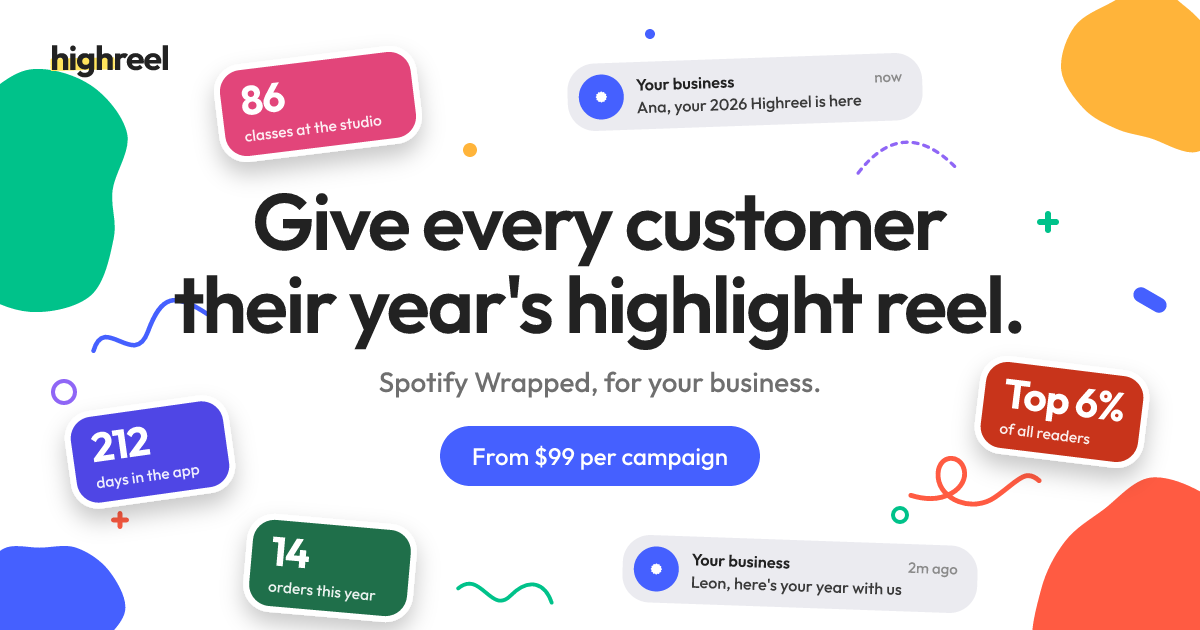
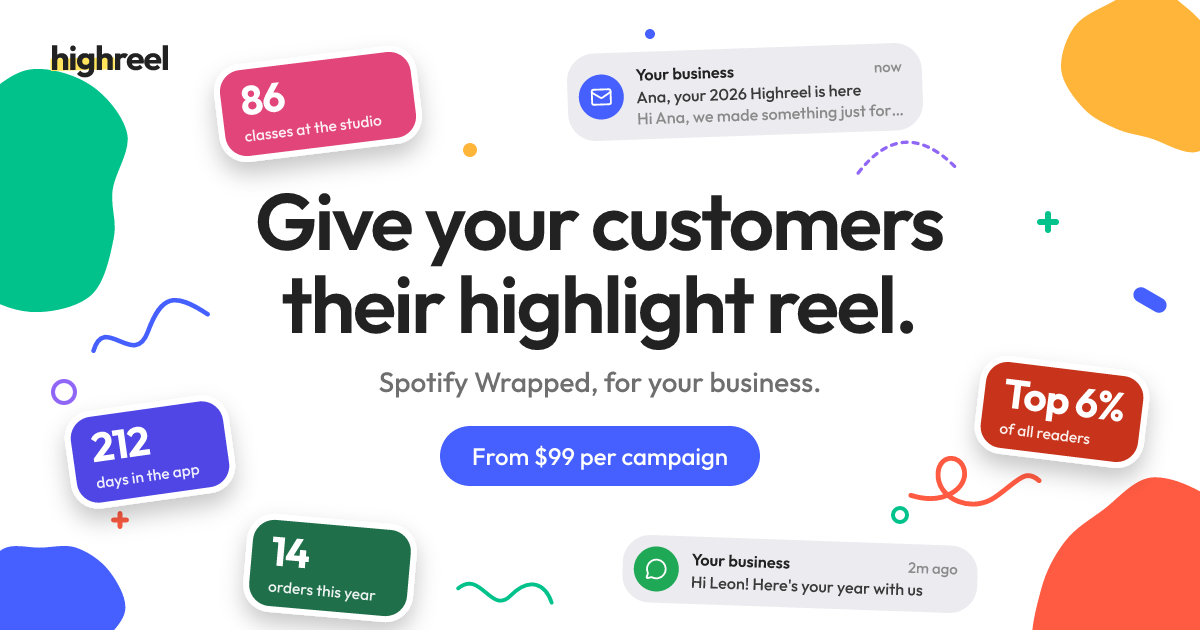
Landing: new headline and lede, email and WhatsApp mock-ups, phones fill edge to edge
- Hero: "Give your customers their highlight reel." with a shorter lede
  ("Spotify Wrapped, for your business: every customer gets a Highreel of
  their year, made to share."); "Your customers had a great year. Show them."
  moves to the closing heading. Tab title, link preview (og.png v3, alt,
  og:title), meta description and the manifest follow.
- Step 2 is "Customise to fit your brand."; its colour flood and step 3's now
  reach the screen's far corners instead of leaving the old colour showing.
- Step 3's lock screens and the hero's bubbles show an email and a WhatsApp
  message from the business, not an app notification with its logo.
- landing.mjs checks the floods, the channels, the headline, lede and closing.

Changed region(s): [[0.1233, 0.3016, 0.8633, 0.573], [0.4933, 0.0905, 0.7708, 0.2111], [0.5242, 0.8444, 0.7708, 0.9651]]

diff --git a/app/pages/index.vue b/app/pages/index.vue
@@ -6,7 +6,7 @@
 // section sits its picture on a big coloured shape: the playing example on
 // its business's colour, the three steps on the page's own palette.
 // Server-rendered, CSS motion only, no third-party scripts.
-import { ArrowRight, ChevronDown } from '@lucide/vue'
+import { ArrowRight, ChevronDown, Mail, MessageCircle } from '@lucide/vue'
 import { usePreferredReducedMotion } from '@vueuse/core'
 import type LandingPlayer from '~/components/landing/LandingPlayer.vue'
 import { blobFrames, type ShapeKind } from '~/lib/shapes'
@@ -38,11 +38,11 @@ const description = LANDING_DESCRIPTION
 // URL names the public site, not the host that built it.
 const canonical = useCanonical('/')
 const ogImage = siteHref(OG_IMAGE)
-const ogImageAlt = 'Highreel: give every customer their year\'s highlight reel. From $99 per campaign.'
+const ogImageAlt = 'Highreel: give your customers their highlight reel. From $99 per campaign.'
 useSeoMeta({
   title,
   description,
-  ogTitle: 'Give every customer their year\'s highlight reel.',
+  ogTitle: 'Give your customers their highlight reel.',
   ogDescription: description,
   ogSiteName: 'Highreel',
   ogLocale: 'en_US',
@@ -139,7 +139,7 @@ const heroBlobs = [
 ].map(b => ({ ...b, frames: blobFrames(b.seed) }))
 // Hand-drawn strokes, each in its own 200 × 120 box.
 const heroLines = [
-  { d: 'M8 70C38 18 62 112 96 62S150 12 192 58', color: C.blue, x: 15, y: 35, s: 140, r: -14, delay: 0 },
+  { d: 'M8 70C38 18 62 112 96 62S150 12 192 58', color: C.blue, x: 15, y: 27, s: 140, r: -14, delay: 0 },
   { d: 'M10 80C60 90 90 60 82 36S40 18 46 50 100 96 130 70 168 24 190 40', color: C.poppy, x: 80, y: 63, s: 140, r: 6, delay: 2.3 },
   { d: 'M12 96Q100 -4 188 96', color: C.violet, x: 72, y: 18, s: 120, r: -4, delay: 4.1, dashed: true },
   { d: 'M14 60C50 20 80 100 110 60S170 30 186 62', color: C.green, x: 37, y: 91, s: 110, r: 8, delay: 1.2, m: [24, 74] as [number, number] },
@@ -163,10 +163,12 @@ const heroStickers = [
   { big: 'Top 6%', small: 'of all readers', bg: '#C8341B', fg: '#FFFFFF', x: 84, y: 58, r: 7 },
   { big: '14', small: 'orders this year', bg: '#1F6F4A', fg: '#FFFFFF', x: 27, y: 87, r: 5, m: [54, 91] as [number, number] },
 ]
-// What lands in each customer's inbox when the business sends the links.
-const heroMail = [
-  { from: 'Your business', when: 'now', text: 'Ana, your 2026 Highreel is here', x: 51, y: 12, r: -2, m: [50, 18] as [number, number] },
-  { from: 'Your business', when: '2m ago', text: 'Leon, here\'s your year with us', x: 61, y: 85, r: 2 },
+// What reaches each customer when the business sends the links: an email
+// from its own address, or a WhatsApp message (owner, 2026-10-14: say which,
+// so it doesn't pass for a notification from an app of ours).
+const heroMail: (Spot & { via: 'mail' | 'chat', from: string, when: string, text: string, more?: string })[] = [
+  { via: 'mail', from: 'Your business', when: 'now', text: 'Ana, your 2026 Highreel is here', more: 'Hi Ana, we made something just for you', x: 51, y: 12, r: -2, m: [50, 18] as [number, number] },
+  { via: 'chat', from: 'Your business', when: '2m ago', text: 'Hi Leon! Here\'s your year with us', x: 61, y: 85, r: 2 },
 ]
 
 const closingShapes: ShapeSpot[] = [
@@ -419,10 +421,11 @@ onMounted(() => {
           :class="{ desk: !n.m }"
           :style="{ ...spot(n, i, 520), ...burst(n, 40 + i) }"
         >
-          <span class="mail-mark"><LandingShape kind="scallop" class="mail-shape" /></span>
+          <span class="mail-mark" :class="`via-${n.via}`"><component :is="n.via === 'mail' ? Mail : MessageCircle" class="mail-shape" /></span>
           <span class="mail-body">
             <span class="mail-from">{{ n.from }}<span class="mail-when">{{ n.when }}</span></span>
             <span class="mail-text">{{ n.text }}</span>
+            <span v-if="n.more" class="mail-text mail-more">{{ n.more }}</span>
           </span>
         </div>
       </div>
@@ -439,7 +442,7 @@ onMounted(() => {
         <!-- The headline and the lede are there in the first frame (no fade):
              they're the page's largest paint, and the scripts wait for it (SPEC M2.11). -->
         <h1 class="headline">
-          <span class="line">Give every customer</span> <span class="line">their year's highlight reel.</span>
+          <span class="line">Give your customers</span> <span class="line">their highlight reel.</span>
         </h1>
         <p class="lede">
           {{ LANDING_LEDE }}
@@ -567,7 +570,9 @@ onMounted(() => {
         </div>
       </div>
       <div class="closing-copy">
-        <h2 class="closing-title rise">Get your Highreels ready for December.</h2>
+        <h2 class="closing-title rise">
+          <span class="line">Your customers had a great year.</span> <span class="line">Show them.</span>
+        </h2>
         <div ref="closingCta" class="rise" style="--d: 100ms">
           <NuxtLink to="/login?demo=1" class="btn">Try the demo <ArrowRight class="size-[18px]" /></NuxtLink>
         </div>
@@ -679,8 +684,9 @@ body.landing-page {
   letter-spacing: -0.025em;
   text-wrap: balance;
 }
+/* two lines on a computer, clear of the stickers beside it */
 .lede {
-  max-width: 32rem;
+  max-width: 30em;
   margin-top: 22px;
   color: var(--muted);
   font-size: clamp(1.08rem, 1.5vw, 1.25rem);
@@ -931,9 +937,11 @@ body.landing-page {
   width: 36px;
   height: 36px;
   border-radius: 50%;
-  background: var(--cta);
   color: #FFFFFF;
 }
+/* an envelope for the email, a speech bubble for the WhatsApp message */
+.mail-mark.via-mail { background: var(--cta); }
+.mail-mark.via-chat { background: #1FA855; }
 .mail-shape { width: 18px; height: 18px; }
 .mail-body { min-width: 0; flex: 1; font-size: 13px; line-height: 1.3; }
 .mail-from {
@@ -950,6 +958,7 @@ body.landing-page {
   text-overflow: ellipsis;
   white-space: nowrap;
 }
+.mail-more { color: #8A8A8A; }
 
 /* --- Hero ------------------------------------------------------------------------ */
 .hero {
@@ -1291,14 +1300,18 @@ body.landing-page {
   padding: 120px 16px;
   text-align: center;
 }
+/* "Your customers had a great year." (13.9em) on one line from 720 px, then "Show them." */
 .closing-title {
-  max-width: 12em;
+  max-width: 14.2em;
   margin-bottom: 32px;
-  font-size: clamp(2.6rem, 6.4vw, 4.75rem);
+  font-size: clamp(2.6rem, 5.6vw, 4.5rem);
   font-weight: 600;
   line-height: 1.04;
   letter-spacing: -0.03em;
   text-wrap: balance;
+}
+@media (min-width: 720px) {
+  .closing-title .line { display: block; }
 }
 .foot {
   position: relative;

diff --git a/app/components/landing/VignetteShare.vue b/app/components/landing/VignetteShare.vue
@@ -1,14 +1,18 @@
 <script setup lang="ts">
-// Landing, step 3: members get their recap. On three phones a notification
-// from "Your business" lands on the lock screen, gets tapped, and that
-// person's recap cover floods open in their business's colour. CSS loop,
-// staggered per phone; the base style is the end state (every recap open),
-// so reduced motion shows three open recaps.
+// Landing, step 3: members get their recap. On three phones the business's
+// message lands on the lock screen (an email on two, a WhatsApp message on
+// one, the two ways a Highreel is sent; owner, 2026-10-14: it mustn't look
+// like an app of ours, so no logo there), gets tapped, and that person's
+// recap cover floods open in their business's colour. CSS loop, staggered per
+// phone; the base style is the end state (every recap open), so reduced
+// motion shows three open recaps.
+import { Mail, MessageCircle } from '@lucide/vue'
+
 const members = [
-  { name: 'Ana', bg: '#4F46E5', fg: '#FFFFFF' },
-  { name: 'Leon', bg: '#E2457A', fg: '#FFFFFF' },
-  { name: 'Dea', bg: '#F5C518', fg: '#1A1A1A' },
-]
+  { name: 'Ana', bg: '#4F46E5', fg: '#FFFFFF', via: 'mail' },
+  { name: 'Leon', bg: '#E2457A', fg: '#FFFFFF', via: 'chat' },
+  { name: 'Dea', bg: '#F5C518', fg: '#1A1A1A', via: 'mail' },
+] as const
 </script>
 
 <template>
@@ -20,10 +24,14 @@ const members = [
             <p class="date">Monday 7 December</p>
             <p class="clock">9:41</p>
             <div class="note">
-              <span class="app"><LandingShape kind="scallop" class="app-shape" /></span>
+              <span class="app" :class="`via-${m.via}`"><component :is="m.via === 'mail' ? Mail : MessageCircle" class="app-icon" /></span>
               <span class="note-body">
                 <span class="note-top"><b>Your business</b><span>now</span></span>
-                <span class="note-text">{{ m.name }}, your 2026 Highreel is here</span>
+                <template v-if="m.via === 'mail'">
+                  <span class="note-text">{{ m.name }}, your 2026 Highreel is here</span>
+                  <span class="note-text note-more">Hi {{ m.name }}, we made something just for you</span>
+                </template>
+                <span v-else class="note-text">Hi {{ m.name }}! We made your 2026 into a little Highreel</span>
               </span>
             </div>
           </div>
@@ -96,7 +104,7 @@ const members = [
   top: 108cqw;
   display: flex;
   gap: 3.4cqw;
-  align-items: center;
+  align-items: flex-start;
   padding: 4cqw;
   border-radius: 7cqw;
   background: rgb(255 255 255 / 0.82);
@@ -112,10 +120,12 @@ const members = [
   width: 12cqw;
   height: 12cqw;
   border-radius: 3cqw;
-  background: #4560FF;
   color: #FFFFFF;
 }
-.app-shape { width: 7.5cqw; height: 7.5cqw; }
+/* the phone's own mail and messages apps, so it reads as an email or a message */
+.app.via-mail { background: linear-gradient(#5AB0FF, #1F7CF2); }
+.app.via-chat { background: linear-gradient(#62DB73, #22B13C); }
+.app-icon { width: 7.5cqw; height: 7.5cqw; stroke-width: 2.4; }
 .note-body { min-width: 0; flex: 1; line-height: 1.2; }
 .note-top {
   display: flex;
@@ -127,11 +137,18 @@ const members = [
   display: block;
   font-size: 5cqw;
 }
+.note-more {
+  overflow: hidden;
+  text-overflow: ellipsis;
+  white-space: nowrap;
+  opacity: 0.6;
+}
 .flood {
   position: absolute;
   left: 50%;
   top: 60%;
-  width: 260%;
+  /* wide enough to reach the top corners (1.4 screen widths away) */
+  width: 320%;
   aspect-ratio: 1;
   border-radius: 50%;
   translate: -50% -50%;

diff --git a/app/data/landing.ts b/app/data/landing.ts
@@ -2,9 +2,9 @@
 // structured data and /llms.txt (server/routes/llms.txt.ts), so they never say
 // different things. The page adds its own pictures and colours.
 
-export const LANDING_TITLE = 'Highreel · Give every customer their year\'s highlight reel'
-export const LANDING_DESCRIPTION = 'Spotify Wrapped for your business: each customer on your sheet gets a Highreel, an animated highlight reel of their year to share. From $99 per campaign.'
-export const LANDING_LEDE = 'Spotify Wrapped, for your business. Upload a sheet with one row per customer, and each one gets their own Highreel: an animated highlight reel of their year to tap through and share.'
+export const LANDING_TITLE = 'Highreel · Give your customers their highlight reel'
+export const LANDING_DESCRIPTION = 'Spotify Wrapped for your business: every customer gets their own Highreel, an animated highlight reel of their year, made to share. From $99 per campaign.'
+export const LANDING_LEDE = 'Spotify Wrapped, for your business: every customer gets a Highreel of their year, made to share.'
 export const LANDING_AUDIENCE = 'Apps, newsletters, online shops, gyms, studios, camps and daycares. If you know what each customer did this year, they can have a Highreel of it.'
 
 export const STEPS = [
@@ -13,7 +13,7 @@ export const STEPS = [
     body: 'One row per customer: a first name and their numbers for the year. CSV or Excel, with our columns or your own. Anything that needs fixing turns red, and you fix it right in the grid.',
   },
   {
-    title: 'Make it look like you.',
+    title: 'Customise to fit your brand.',
     body: 'Add your logo and colour, choose a theme and rewrite any line. Click any customer to see their Highreel change as you type.',
   },
   {

diff --git a/app/components/landing/VignetteBrand.vue b/app/components/landing/VignetteBrand.vue
@@ -72,7 +72,8 @@ const swatches = ['#4F46E5', '#C8341B', '#1F6F4A', '#F5C518']
   position: absolute;
   left: 100%;
   top: 40%;
-  width: 260%;
+  /* wide enough to reach the far corner (bottom left, 1.64 screen widths away) */
+  width: 360%;
   aspect-ratio: 1;
   border-radius: 50%;
   transform: translate(-50%, -50%) scale(0);

diff --git a/app/data/brand.ts b/app/data/brand.ts
@@ -14,4 +14,4 @@ export const LOGO: Logo = 'highlighter'
  * scripts/og-landing.mjs). Chat apps and social sites keep a preview by its
  * address, so bump `v` whenever the picture is redrawn.
  */
-export const OG_IMAGE = '/og.png?v=2'
+export const OG_IMAGE = '/og.png?v=3'

diff --git a/SPEC.md b/SPEC.md
@@ -1156,3 +1156,4 @@ One-time per campaign on **Whop**: founding price **$99** (up to 1,000 recipient
 | 2026-10-13 | **Releases through GitHub; the live landing's Turnstile key.** Owner: a commit should show on GitHub that Cloudflare is deploying it. Built `.github/workflows/deploy.yml`: every push to master runs the type check and unit tests, `db:migrate:remote`, then `run deploy`, as the `production` environment (shown on the commit, under Actions and Deployments); it needs the repo secret `CLOUDFLARE_API_TOKEN` ("Edit Cloudflare Workers" plus D1 Edit) and fails with that message until it's there; `.node-version` pins Node 22.23.2. Found while setting it up: a build reads `.env`, so the prerendered landing, terms and privacy carried Turnstile's test site key, and a page opened from them keeps it (checked live: after a client-side move to `/login` the key was still the test one), so a signed-out visitor's "Try the demo" or "Get started" sent a test token the production secret rejects. Fix: release builds set `HIGHREEL_RELEASE=1`, and nuxt.config then takes `NUXT_PUBLIC_*` from wrangler.jsonc's vars; `scripts/check-release.mjs` (between build and upload) refuses a build whose prerendered pages carry another key (it failed on the build that was live). The GitHub repo is public. The owner added `CLOUDFLARE_API_TOKEN`; the next run failed in setup-node (v5 caches the package manager named in package.json, and pnpm only exists after `corepack enable`), fixed with `package-manager-cache: false`. Run 38382371564 passed (typecheck, 320 vitest, no migrations, release check, deploy in 1m32s): version `9a0afafa`, and `/`, `/terms`, `/privacy` now carry the real site key. The runner is pinned to `ubuntu-24.04` (`ubuntu-latest` moves to 26 on 2026-10-19). |
 | 2026-10-13 | **Admin pages, round two: a sidebar, figures instead of sentences, blocking and removing accounts; the link preview redrawn (M2.15).** Owner (dictated, with a screenshot of Google's result): not happy with the admin layout; a quick sidebar on the left like the example pages' side panel, content on the right; the overview's "long blob of text" and the handwritten font have to go ("easy to read"); keep newest accounts, latest published, latest payments; Users, a user's page, Highreels and Payments are fine (the Admins tab stays); on the users table, a quick way to block or remove an account so its address is blocked, for abuse; the link preview should match the site; Google shows a globe instead of the logo. Also made the owner's own account the admin on highreel.app (`role = 'admin'`, the one live write, on request). Built: `app/pages/app/admin.vue` as a sidebar (sticky 220 px column; a row on top on phones, icons hidden so the four fit); `AdminFigures` with `overviewFigures`/`userFigures` replace the sentences on the overview and a user's page (`AdminPhrase` and the sentence helpers deleted); `migrations/0005_blocks.sql` (`blocked_emails`), `server/utils/moderation.ts` (block, unblock, remove; never an admin), routes `POST /api/admin/users/:id/block`, `POST …/remove`, `POST /api/admin/unblock`, `GET /api/admin/users?kind=blocked`; a blocked address gets no sign-in link, user or session (`auth.ts` hooks), its Highreels 404; `AdminUserActions` ("⋯" menu on Users, pinned to the table's right edge; buttons on a user's page; dialogs with an optional note, Remove offering to block the address, ticked); a Blocked list with Unblock. Privacy policy: what a block does (§3) and how long a blocked address is kept (§9). `scripts/og-landing.mjs` now draws today's hero (blobs, hand-drawn lines, pieces, the four stickers, the two inbox notifications, wordmark top left); the pages link it as `/og.png?v=2` (`OG_IMAGE` in `app/data/brand.ts`) so chat apps fetch it again. Found on the built Worker: Nitro's Cloudflare handler passes a body only to POST, PUT and PATCH, so a route reading a DELETE's body hangs until the runtime cancels it; the new routes are POSTs, and the workspace's `DELETE /api/media` (deleting a replaced logo or removed photo; the browser ignores its failure) had never worked live: now `POST /api/media/delete`, and `isolation.test.ts` fails any `*.delete.ts` that reads a body (checked against the old file). Google's globe: the home page already links `/favicon.ico` (48 px) and `/icon.svg`, both 200 to a crawler's user agent, robots.txt allows them, and the WebSite structured data names "Highreel"; the site is a day old, and Google fetches favicons on its own schedule; Search Console's URL inspection → Request indexing on the home page asks for it sooner. Checks: typecheck; 323 vitest (figures; moderation's writes; the DELETE-body guard; `auth.test.ts` blocks a session and a new user, now on a shared migrated SQLite with D1-style statements, and measures the session lookup after a warm-up); `check:isolation` (a client gets 404 from block, remove, unblock); e2e admin (52), auth, session, landing, legal, business, media, home, speed pass; on the built Worker (copy built with `buildDir: '.nuxt'`, port 3058, local D1/R2): block signs out, 404s the Highreel, refuses a link at `/login`; unblock restores; an admin 409s; remove deletes the account and blocks the address; `/api/media/delete` deletes the file; budgets pass (`/r` 129.9 KB, first slide 784 ms); Lighthouse 100 ×4 on `/` and `/privacy`, mobile and desktop. Released as `db8d9f0` (owner: "push to production"): run 38387963960 passed typecheck and tests, applied `0005_blocks.sql` to the live database, deployed version `2739354b`; checked live: `og:image` is `/og.png?v=2` (200), the new routes answer 401 signed out. |
 | 2026-10-13 | **Quiet scrollbars in light and dark.** Owner: scrollbars stood out in dark mode. Dark mode never set `color-scheme`, so the browser drew white scrollbar tracks on the dark app (the sheet, the Design rail). `main.css` now sets `color-scheme` on `:root`/`.dark` and gives every scroller a thin scrollbar with a translucent thumb (`--scrollbar`) and no track. Only standard properties: `::-webkit-scrollbar` would turn macOS's overlay scrollbars into always-shown ones. `landing.mjs` checks both modes. |
+| 2026-10-14 | **Landing: the step phones fill edge to edge; customers get an email or a WhatsApp message, not an app notification; step 2 retitled; a new headline and lede.** Owner (dictated, two screenshots): in step 2 the new colour left a wedge of the old one on the phone, and in step 3 the opened Highreel didn't cover the top of the screen. Cause: each flood is a growing circle, and its full size fell short of the screen's far corner (step 2's starts at the right edge, 40% down: the bottom-left corner is 1.64 screen widths away, the circle's radius was 1.3; step 3's starts in the middle, 60% down: the top corners are 1.4 away). Now 360% and 320% wide. Owner: the step 3 notification (the business's scallop on a blue app icon, the same mark the Highreel opens with) read like a phone app; make it clear it's an email or a message. The lock screens now show the phone's own mail app (envelope, subject and a preview line) on Ana's and Dea's phones and a messages app (speech bubble) on Leon's, the two ways a Highreel is sent; the logo appears only in the Highreel. The hero's two bubbles likewise: an email (envelope, subject, preview) and a WhatsApp message (green bubble). Step 2 is "Customise to fit your brand." (was "Make it look like you."; British spelling like the rest of the page). `landing.mjs` checks every flood reaches its phone's far corner (distance / radius < 1; it failed at 1.27 and 1.07 before) and the email/message icons in the hero and step 3. Then the hero, on trial (owner: "Give every customer their year's highlight reel" didn't roll off the tongue, and the three-line headline over a long lede felt heavy): "Your customers had a great year. Show them." (from four suggestions) took three lines on a computer and needed a smaller headline to fit two (its first line is 13.9em), so the owner tried their own version of the first suggestion: **"Give your customers their highlight reel."**, two lines on a computer and on a phone at the original size (`.headline` back to 13em, `clamp(2.6rem, 7vw, 5.25rem)`). Owner's call after comparing: that one in the hero (says what it is, fits), "Your customers had a great year. Show them." as the closing heading above the last Try the demo (was "Get your Highreels ready for December."; by then the reader knows what a Highreel is). The lede drops the sheet ("Upload a sheet with one row per customer", step 1 says it) and no longer repeats "highlight reel" under the headline: "Spotify Wrapped, for your business: every customer gets a Highreel of their year, made to share." (max 30em, two lines, clear of the stickers at 1024 px; CLAUDE.md's naming rule and the memory updated: the headline explains, the lede names). The blue squiggle moved up off the headline. The tab title, link-preview title and alt, the manifest description and `og.png` say the new line (`og.png` also redrawn with the email and WhatsApp bubbles; `OG_IMAGE` v3). The closing heading breaks after "year." on a computer (`.closing-title` 14.2em, `clamp(2.6rem, 5.6vw, 4.5rem)`, a line per sentence from 720 px). The meta description (Google's snippet, `/llms.txt`) drops "on your sheet" too: "Spotify Wrapped for your business: every customer gets their own Highreel, an animated highlight reel of their year, made to share. From $99 per campaign." `landing.mjs` checks the headline, the lede and the closing heading; landing (71), legal, typecheck and unit tests pass. Released on the owner's go-ahead ("push it to prod"); Lighthouse not re-run (copy and aria-hidden decoration only). Then asked Google Search Console and Bing Webmaster Tools to re-crawl the landing. |

diff --git a/CLAUDE.md b/CLAUDE.md
@@ -37,7 +37,7 @@ python3 scripts/subset-caveat.py  # rebuild the landing's handwriting font subse
 
 ## Rules
 
-- The product is **Highreel**: the lowercase wordmark, page titles ("Sign in · Highreel"), "Made with Highreel" on the share slide, share image and link preview, and anywhere copy names us. What each customer gets is **a Highreel** (plural Highreels; owner, 2026-10-12: the name should become the word for them, like Spotify's "Wrapped"). "highlight reel" only where a first-time reader needs it explained: the landing's headline, title, description and link preview, the lede that defines it ("their own Highreel: an animated highlight reel of their year"), the example pages' descriptions, and the first mention on terms and privacy (`landing.mjs` and `legal.mjs` check this). Everything else says Highreel: the whole app ("New Highreel", "195 Highreels published", toasts, errors, the sheet contract) and, since the owner's follow-up the same day, what the business's own customers receive too (the email button "Open your Highreel", the default WhatsApp text, the landing's inbox mock-ups, `/r`'s errors, the unsubscribe page, saved image names, the "customers got a Highreel" suggestion), so the word spreads like "my Wrapped". Those messages still come from the business: no Highreel sender, logo or footer in an email (`send.mjs` checks the button is its only mention). "recap" only as an ordinary word in a sentence, never as the noun. File names: `highreel-template-*.csv`, the links file's `link` column and the `{link}` placeholder (`{recap_url}` still works in saved messages). The repo folder and package are `highreel` (2026-10-12); code names (`RecapPlayer`, `/r`, `recap.css`) and localStorage keys keep "recap".
+- The product is **Highreel**: the lowercase wordmark, page titles ("Sign in · Highreel"), "Made with Highreel" on the share slide, share image and link preview, and anywhere copy names us. What each customer gets is **a Highreel** (plural Highreels; owner, 2026-10-12: the name should become the word for them, like Spotify's "Wrapped"). "highlight reel" only where a first-time reader needs it explained: the landing's headline ("Give your customers their highlight reel.", since 2026-10-14; the lede under it just names "a Highreel of their year"), title, description and link preview, the example pages' descriptions, and the first mention on terms and privacy (`landing.mjs` and `legal.mjs` check this). Everything else says Highreel: the whole app ("New Highreel", "195 Highreels published", toasts, errors, the sheet contract) and, since the owner's follow-up the same day, what the business's own customers receive too (the email button "Open your Highreel", the default WhatsApp text, the landing's inbox mock-ups, `/r`'s errors, the unsubscribe page, saved image names, the "customers got a Highreel" suggestion), so the word spreads like "my Wrapped". Those messages still come from the business: no Highreel sender, logo or footer in an email (`send.mjs` checks the button is its only mention). "recap" only as an ordinary word in a sentence, never as the noun. File names: `highreel-template-*.csv`, the links file's `link` column and the `{link}` placeholder (`{recap_url}` still works in saved messages). The repo folder and package are `highreel` (2026-10-12); code names (`RecapPlayer`, `/r`, `recap.css`) and localStorage keys keep "recap".
 - Verify UI changes in a real browser, not just by typecheck: `corepack pnpm e2e` (headless installed Chrome), and add a check to `tests/e2e/` for new behaviour. Claude in Chrome's window is often hidden on this Mac, which freezes animations.
 - The workspace UI is a dense Airtable-style grid with a live recap preview. No dashboard cards, charts or stat tiles (SPEC §6).
 - A recap's setup lives in its tabs (SPEC M2.6): Sheet is data and a preview only; wording, theme, photos and the button go in Design; publishing and sending in Share; name, logo and colour on Your brand. Don't add design controls back to the Sheet.
